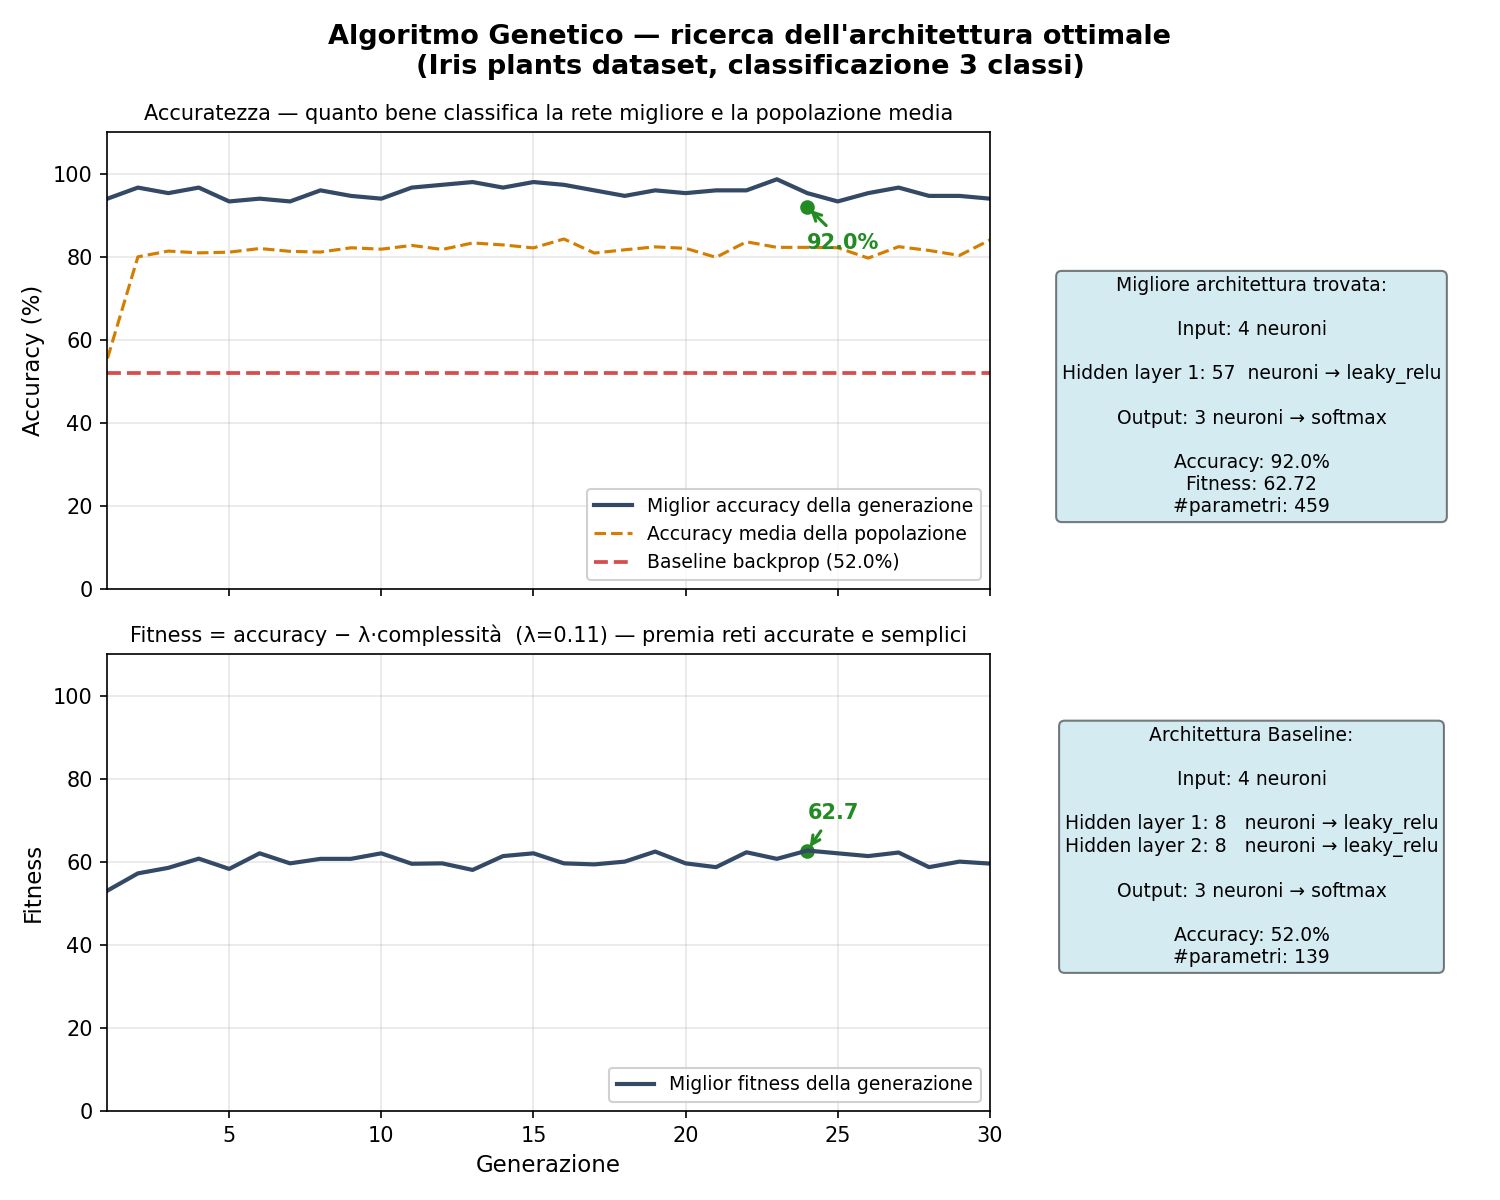
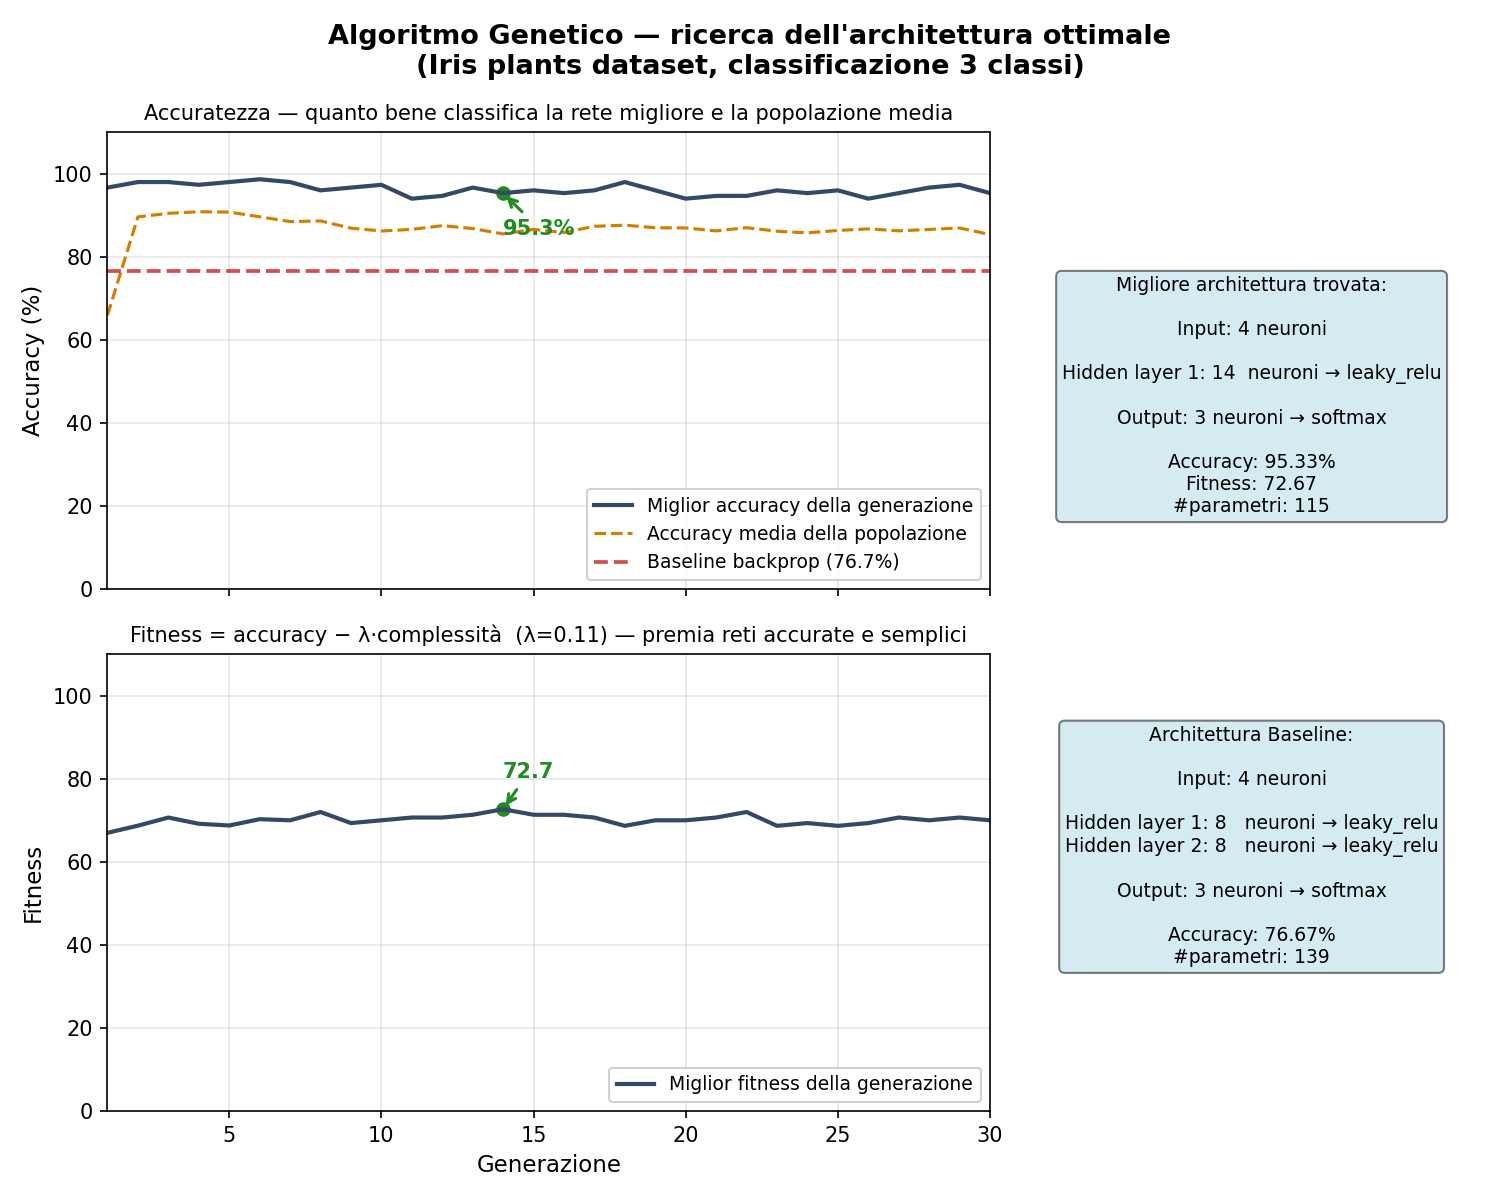
plan: add cross_entropy/dCE_softmax to   nn_engine.py, replace delta_out at line 111 without calling dfunc, and   leave nn_layer.py softmax untouched.

diff --git a/neural_network/genetic_algorithm.py b/neural_network/genetic_algorithm.py
@@ -11,7 +11,7 @@ MAX_LAYER = 10
 
 class GeneticAlgorithm:
 
-    def __init__(self, population_size, generations, mutation_rate, tournament_size, epochs, learning_rate, n_feature, n_output, K, lambda_, X_Train, Y_Train, X_val, Y_val, minNeuroni=4, maxNeuroni=64, minLayer=1, maxLayer=10, seed=None):
+    def __init__(self, population_size, generations, mutation_rate, tournament_size, epochs, learning_rate, n_feature, n_output, K, lambda_, X_Train, Y_Train, X_val, Y_val, minNeuroni=MIN_NEURONI, maxNeuroni=MAX_NEURONI, minLayer=MIN_LAYER, maxLayer=MAX_LAYER, seed=None):
         """
         @brief Inizializza l'algoritmo genetico per la ricerca automatica dell'architettura.
 
@@ -41,14 +41,11 @@ class GeneticAlgorithm:
         @note I bounds minNeuroni/maxNeuroni/minLayer/maxLayer sovrascrivono le costanti di modulo
               MIN_NEURONI, MAX_NEURONI, MIN_LAYER, MAX_LAYER tramite global.
         """
-        global MIN_LAYER
-        global MIN_NEURONI
-        global MAX_LAYER
-        global MAX_NEURONI
-        MIN_LAYER = minLayer
-        MIN_NEURONI = minNeuroni
-        MAX_LAYER = maxLayer
-        MAX_NEURONI = maxNeuroni
+        
+        self.minLayer = minLayer 
+        self.minNeuroni = minNeuroni 
+        self.maxLayer = maxLayer
+        self.maxNeuroni = maxNeuroni 
 
         self.seed = seed
         self.rng = random.Random(seed)  # RNG isolato: non interferisce con il random globale
@@ -93,9 +90,9 @@ class GeneticAlgorithm:
                 una per ogni hidden layer.
         """
         cromosoma = []
-        n_hidden_layer = self.rng.randint(MIN_LAYER, MAX_LAYER)
+        n_hidden_layer = self.rng.randint(self.minLayer, self.maxLayer)
         for _ in range(0, n_hidden_layer):
-            cromosoma.append((self.rng.randint(MIN_NEURONI, MAX_NEURONI), self.rng.choice(self.hidden_functions)))
+            cromosoma.append((self.rng.randint(self.minNeuroni, self.maxNeuroni), self.rng.choice(self.hidden_functions)))
 
         return cromosoma
 
@@ -235,12 +232,12 @@ class GeneticAlgorithm:
         @note Un layer viene rimosso solo se l'individuo ha più di un layer.
         """
         individuo = [layer_ for layer_ in individuo]
-        for i in range(0, len(individuo)):
+        for i in range(len(individuo) - 1, -1, -1):
             if self.rng.random() < self.mutation_rate:
                 new_layer = ()
-                mut = self.rng.choices([0, 1, 2], [20, 20, 1])[0]
+                mut = self.rng.choices([0, 1, 2], [2, 2, 20])[0]
                 if mut == 0: # mutano il numero di neuroni
-                    new_layer = (self.rng.randint(MIN_NEURONI, MAX_NEURONI), individuo[i][1])
+                    new_layer = (self.rng.randint(self.minNeuroni, self.maxNeuroni), individuo[i][1])
                     individuo[i] = new_layer
                 elif mut == 1: # muta la funzione di attivazione
                     new_layer = (individuo[i][0], self.rng.choice(self.hidden_functions))
@@ -249,13 +246,11 @@ class GeneticAlgorithm:
 
                     if self.rng.randint(0, 1) == 0 and len(individuo) > 1:
                         pos = self.rng.randint(0, len(individuo) - 1)
-
                         del individuo[pos]
-                        break # necessario perché dopo l'elimiazione gli indici non sono più validi
                     else:
 
                         pos = self.rng.randint(0, len(individuo))
-                        individuo.insert(pos, (self.rng.randint(MIN_NEURONI, MAX_NEURONI), self.rng.choice(self.hidden_functions)))
+                        individuo.insert(pos, (self.rng.randint(self.minNeuroni, self.maxNeuroni), self.rng.choice(self.hidden_functions)))
         return individuo
 
 

diff --git a/neural_network/nn_engine.py b/neural_network/nn_engine.py
@@ -108,7 +108,8 @@ class neural_network:
 
 
         # delta dell'output
-        delta_out = self.dMSE(target, guess) * self.output_layer.dfunc(valori_intermedi[-1])
+        # delta_out = self.dMSE(target, guess) * self.output_layer.dfunc(valori_intermedi[-1])
+        delta_out = self.dCE_softmax(target, guess)
         deltas.append(delta_out)
 
 
@@ -140,27 +141,40 @@ class neural_network:
         self.output_layer.b -= self.lr * deltas[0]
 
 
-    def MSE(self, target, guess):
-        """
-        @brief Calcola la Mean Squared Error tra target e predizione.
+    # def MSE(self, target, guess):
+    #     """
+    #     @brief Calcola la Mean Squared Error tra target e predizione.
 
-        La formula usata è MSE = sum((target - guess)^2) / 2. Il divisore 2
-        semplifica la derivata (la costante si cancella).
+    #     La formula usata è MSE = sum((target - guess)^2) / 2. Il divisore 2
+    #     semplifica la derivata (la costante si cancella).
 
-        @param target (numpy.ndarray) Vettore target atteso, forma (size_output, 1).
-        @param guess (numpy.ndarray) Output predetto dalla rete, forma (size_output, 1).
-        @return (float) Valore scalare della loss.
-        """
-        return np.sum((target - guess)**2) / 2
+    #     @param target (numpy.ndarray) Vettore target atteso, forma (size_output, 1).
+    #     @param guess (numpy.ndarray) Output predetto dalla rete, forma (size_output, 1).
+    #     @return (float) Valore scalare della loss.
+    #     """
+    #     return np.sum((target - guess)**2) / 2
 
-    def dMSE(self, target, guess):
-        """
-        @brief Calcola la derivata della MSE rispetto all'output della rete.
+    # def dMSE(self, target, guess):
+    #     """
+    #     @brief Calcola la derivata della MSE rispetto all'output della rete.
 
-        @param target (numpy.ndarray) Vettore target atteso, forma (size_output, 1).
-        @param guess (numpy.ndarray) Output predetto dalla rete, forma (size_output, 1).
-        @return (numpy.ndarray) Gradiente della loss rispetto a guess: (guess - target).
-        """
+    #     @param target (numpy.ndarray) Vettore target atteso, forma (size_output, 1).
+    #     @param guess (numpy.ndarray) Output predetto dalla rete, forma (size_output, 1).
+    #     @return (numpy.ndarray) Gradiente della loss rispetto a guess: (guess - target).
+    #     """
+    #     return guess - target
+
+    def cross_entropy(self, target, guess):
+        """      
+        @brief Cross-entropy loss per classificazione multi-classe.
+        @param target (numpy.ndarray) One-hot vector, forma (size_output, 1).     
+        @param guess  (numpy.ndarray) Output softmax della rete forma (siz e_output,1).
+        @return (float) Valore scalare della loss.                                
+        """ 
+        guess_clipped = np.clip(guess, 1e-12, 1.0)
+        return np.sum(target * np.log(guess_clipped))
+    
+    def dCE_softmax(self,target, guess):
         return guess - target
 
 

diff --git a/main.py b/main.py
@@ -24,14 +24,18 @@ def number_params(input_size, individuo, output_size):
     params += output_size * prev + output_size
     return params
 
-def accuracy_base(individuo, n_feature, n_output, learning_rate, epochs, Y_train, X_train, Y_val, X_val, K):
+def accuracy_base(individuo, n_feature, n_output, learning_rate, epochs, Y_train, X_train, Y_val, X_val, K, seed=None):
+
+    rng_np = np.random.default_rng(seed)
+
+    rng = random.Random(seed)
 
     sum_accuracy = 0
     for _ in range(0, K):
-        n = neural_network(individuo, n_feature, n_output, learning_rate, softmax)
+        n = neural_network(individuo, n_feature, n_output, learning_rate, softmax, rng=rng_np)
         # ADDESTRAMENTO → training set
         for _ in range(0, epochs):
-            x = random.randint(0, len(Y_train) - 1)
+            x = rng.randint(0, len(Y_train) - 1)
             n.feedback(X_train[x], Y_train[x])
         # VALUTAZIONE → testing set
         correct = 0
@@ -48,7 +52,7 @@ def accuracy_base(individuo, n_feature, n_output, learning_rate, epochs, Y_train
 
 K = 5 # numero di addestramenti per individuo
 
-POPULATION_SIZE = 50
+POPULATION_SIZE = 80
 GENERATIONS = 30
 MUTATION_RATE = 0.2
 TOURNAMENT_SIZE = 10
@@ -132,7 +136,8 @@ if __name__ == "__main__":
                   x_train,
                   y_val,
                   x_val,
-                  K)
+                  K,
+                  seed=42)
     print(f"accuracy della rete baseline: {round((accuracy_baseline) * 100, 2)}%\n#params: {number_params(input_size, cromosoma_baseline, n_classi)}")
 
     # ESECUZIONE DEL Genetic Algorithm

diff --git a/main_test.py b/main_test.py
@@ -16,7 +16,7 @@ import matplotlib.patches as mpatches
 import numpy as np
 
 
-def draw_neural_network(ax, individuo, max_neurons_shown=6):
+def draw_neural_network(ax, individuo, max_neurons_shown=32):
     """
     Disegna la rete neurale come grafo a strati su un asse matplotlib.
     Si adatta automaticamente alle dimensioni dell'asse senza distorcere i cerchi.
@@ -306,11 +306,11 @@ if __name__ == "__main__":
    
    
     fig, axes = plt.subplot_mosaic(
-    [['fitness',      'fitness'],
-     ['accuracy',     'accuracy'],
-     ['architettura',         'rete']],
+    [['fitness',      'accuracy'],
+     ['fitness',     'architettura'],
+     ['rete',         'rete']],
     figsize=(10, 11),
-    gridspec_kw={'height_ratios': [1, 1, 0.8],'width_ratios': [1, 2]}
+    gridspec_kw={'height_ratios': [1, 1, 2],'width_ratios': [1, 1]}
     )
 
 

diff --git a/prove.py b/prove.py
@@ -1,0 +1,9 @@
+l = [1,2,3,4,5,6,7]
+for j in range(len(l)):
+    print("="*50)
+    print(l)
+    for i in range(len(l) - 1, -1, -1):
+        if i == j: del l[i]
+    print(l)
+    print("="*50)
+
